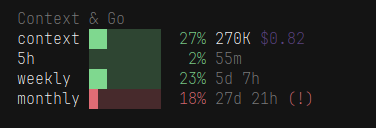
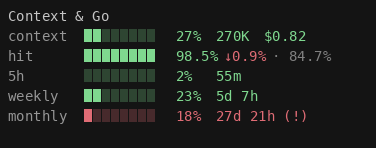
feat: cache hit cliccabile e totale automatico
- src/cache.ts: larghezza stimata per il totale
- src/config.ts: rimossa l'opzione hitTotal
- tests/cache.test.ts: test della larghezza
- tui.tsx: riga hit cliccabile, dettaglio cache, totale automatico
- README.md: testo e tabella aggiornati
- assets/sidebar.png: nuova riga hit

diff --git a/tui.tsx b/tui.tsx
@@ -4,7 +4,7 @@ import { Plugin } from "@opencode/plugin/tui"
 import { DEFAULTS, loadConfig, pollingNeeded, saveConfig, type Config, type Glyph } from "./src/config"
 import { alerting, buildRows, orderRows, type Row } from "./src/rows"
 import { fetchUsageResult, readAuthKey } from "./src/usage"
-import { cacheHit, cachePercent, cacheTrend } from "./src/cache"
+import { cacheHit, cachePercent, cacheTrend, totalFits } from "./src/cache"
 import { Settings } from "./settings"
 
 // Local TUI plugin: one "Context & Go" block, the session's context usage as the
@@ -194,6 +194,8 @@ export default Plugin.define({
     // threshold colours and from the muted title.
     const accent = () =>
       context.theme?.hue?.accent?.["500"] ?? context.theme?.hue?.interactive?.["300"] ?? "#FF9654"
+    const trendColor = (trend: number) =>
+      trend > 0 ? hitColor(context.theme, 100) : trend < 0 ? hitColor(context.theme, 0) : muted()
 
     // One <text> per run: fg given to a <span> is ignored, that run would render in
     // the default colour. The label is left out on the footer row, which has no room
@@ -235,6 +237,8 @@ export default Plugin.define({
 
     // Cache hit: the last assistant message, with the previous one as the trend.
     // Same label column and bar width as the plan rows, so the bars line up.
+    // The total is dropped when the row would not fit (the slot has no width of
+    // its own, so totalFits() estimates it from the terminal).
     const HitRow = (props: { sessionID?: string }) => {
       const info = createMemo(() => {
         tick()
@@ -242,8 +246,6 @@ export default Plugin.define({
       })
       const hit = () => info()?.hit
       const total = () => info()?.total
-      const trendFg = (trend: number) =>
-        trend > 0 ? hitColor(context.theme, 100) : trend < 0 ? hitColor(context.theme, 0) : muted()
       return (
         <Show when={cfg().columns.hit && hit() !== undefined}>
           <box flexDirection="row" gap={0}>
@@ -251,9 +253,14 @@ export default Plugin.define({
             <text fg={hitColor(context.theme, hit()!)}>{bar(hit()!, cfg().bar.cells, cfg().bar.glyphs)}</text>
             <text fg={hitColor(context.theme, hit()!)}>{" " + cachePercent(hit()!)}</text>
             <Show when={info()?.trend !== undefined}>
-              <text fg={trendFg(info()!.trend!)}>{" " + cacheTrend(info()!.trend)}</text>
+              <text fg={trendColor(info()!.trend!)}>{" " + cacheTrend(info()!.trend)}</text>
             </Show>
-            <Show when={cfg().columns.hitTotal && total() !== undefined}>
+            <Show
+              when={
+                total() !== undefined &&
+                totalFits(process.stdout.columns ?? 0, cfg().bar.cells, info()?.trend !== undefined)
+              }
+            >
               <text fg={muted()}>{" \u00b7 " + cachePercent(total()!)}</text>
             </Show>
           </box>
@@ -354,6 +361,17 @@ export default Plugin.define({
               <text fg={accent()}>{col("cost") + USD.format(spent())}</text>
             </Show>
           </Show>
+          <Show when={info()?.hit !== undefined}>
+            <text>{" "}</text>
+            <text fg={cfg().accentLabels ? accent() : muted()}>{"Cache"}</text>
+            <text fg={hitColor(context.theme, info()!.hit!)}>{col("hit") + cachePercent(info()!.hit!)}</text>
+            <Show when={info()?.trend !== undefined}>
+              <text fg={trendColor(info()!.trend!)}>{col("trend") + cacheTrend(info()!.trend)}</text>
+            </Show>
+            <Show when={info()?.total !== undefined}>
+              <text fg={muted()}>{col("total") + cachePercent(info()!.total!)}</text>
+            </Show>
+          </Show>
           <text>{" "}</text>
           <text fg={cfg().accentLabels ? accent() : muted()} onMouseUp={openSettings}>
             {"Settings"}
@@ -418,7 +436,9 @@ export default Plugin.define({
                 <box onMouseUp={() => openDetail(props.sessionID)}>
                   <ContextRow sessionID={props.sessionID} cost label />
                 </box>
-                <HitRow sessionID={props.sessionID} />
+                <box onMouseUp={() => openDetail(props.sessionID)}>
+                  <HitRow sessionID={props.sessionID} />
+                </box>
                 <For each={shown()}>
                   {(row) => <PlanRow row={row} onDetail={() => openDetail(props.sessionID)} />}
                 </For>

diff --git a/src/config.ts b/src/config.ts
@@ -15,7 +15,7 @@ export type Config = {
   autoOpenWindows: string[]
   thresholds: { warning: number; error: number }
   bar: { cells: number; glyphs: Glyph }
-  columns: { percent: boolean; tokens: boolean; cost: boolean; reset: boolean; flag: boolean; hit: boolean; hitTotal: boolean }
+  columns: { percent: boolean; tokens: boolean; cost: boolean; reset: boolean; flag: boolean; hit: boolean }
   order: "fixed" | "projection"
   accentLabels: boolean
   refresh: { contextMs: number; planMs: number }
@@ -32,7 +32,7 @@ export const DEFAULTS: Config = {
   autoOpenWindows: [...WINDOW_LABELS],
   thresholds: { warning: 75, error: 90 },
   bar: { cells: 8, glyphs: "blocks" },
-  columns: { percent: true, tokens: true, cost: true, reset: true, flag: true, hit: true, hitTotal: true },
+  columns: { percent: true, tokens: true, cost: true, reset: true, flag: true, hit: true },
   order: "fixed",
   accentLabels: true,
   refresh: { contextMs: 3_000, planMs: 60_000 },
@@ -68,7 +68,6 @@ function pickColumns(raw: any): Config["columns"] {
     reset: pickBool(raw?.reset, DEFAULTS.columns.reset),
     flag: pickBool(raw?.flag, DEFAULTS.columns.flag),
     hit: pickBool(raw?.hit, DEFAULTS.columns.hit),
-    hitTotal: pickBool(raw?.hitTotal, DEFAULTS.columns.hitTotal),
   }
 }
 
@@ -209,7 +208,6 @@ export function optionKeys(cfg: Config): string[] {
     "columns.reset",
     "columns.flag",
     "columns.hit",
-    "columns.hitTotal",
     "refresh.contextMs",
     "refresh.planMs",
     "projectionMinElapsed",

diff --git a/tests/cache.test.ts b/tests/cache.test.ts
@@ -1,5 +1,5 @@
 import { test, expect } from "bun:test"
-import { cacheHit, cachePercent, cacheTrend } from "../src/cache"
+import { cacheHit, cachePercent, cacheTrend, totalFits } from "../src/cache"
 
 const assistant = (id: string, input: number, read: number, write = 0) => ({
   id,
@@ -36,6 +36,13 @@ test("no assistant tokens means no row", () => {
   expect(cacheHit([{ id: "u", type: "user" }])).toBeUndefined()
   expect(cacheHit([])).toBeUndefined()
   expect(cacheHit([{ id: "a", type: "assistant", tokens: { input: 0, cache: { read: 0, write: 0 } } }])).toBeUndefined()
+})
+
+test("the total only shows when the sidebar has room", () => {
+  expect(totalFits(160, 8, true)).toBe(true)
+  expect(totalFits(120, 8, true)).toBe(true)
+  expect(totalFits(100, 8, true)).toBe(false)
+  expect(totalFits(100, 8, false)).toBe(true)
 })
 
 test("percent and trend keep the token-cache formatting", () => {

diff --git a/src/cache.ts b/src/cache.ts
@@ -58,3 +58,13 @@ export function cacheTrend(value: number | undefined): string {
   if (value === undefined || Math.abs(value) < 0.05) return "-"
   return (value > 0 ? "\u2191" : "\u2193") + Math.abs(value).toFixed(1) + "%"
 }
+
+// The sidebar slot reports only the session id, not its width. The host gives it
+// roughly a third of the terminal, so that is the budget used to decide whether
+// the session total fits after the trend. Row: label, bar, " 98.5%", " ↓0.9%",
+// " · 84.7%".
+export function totalFits(terminalWidth: number, cells: number, hasTrend: boolean): boolean {
+  const sidebar = Math.floor(terminalWidth * 0.3)
+  const row = 8 + cells + 6 + (hasTrend ? 6 : 0) + 8
+  return sidebar >= row
+}

diff --git a/README.md b/README.md
@@ -66,8 +66,10 @@ monthly ████████  14% 28d 3h (!)
 - The first row is the session's context: a bar, the percentage, the tokens used and, on the sidebar,
   the session cost.
 - The second row is the cache hit of the last assistant message: the same bar and label column as the
-  plan rows, the percentage, the delta against the previous message, and the session total when
-  `columns.hitTotal` is on. A high hit is good, so its colour is not the Go-plan threshold colour.
+  plan rows, the percentage, the delta against the previous message, and the session total when the
+  sidebar has room for it. The slot reports no width, so the terminal width is used as a proxy and
+  the total stays off on narrow terminals. A high hit is good, so its colour is not the Go-plan
+  threshold colour.
 - One row per plan window: the bar and the percentage in the threshold colour, the countdown to that
   window's reset, and `(!)` when the pace seen so far would saturate the window before it resets.
 - A window that is only *forecasting* a breach already takes the alert colour: 14% used but heading
@@ -77,7 +79,7 @@ Prompt footer row: the same context figures in compact form, then ` | 5h:20% w:1
 
 Clicking the title or any row opens one detail dialog: every window with how much of it has elapsed
 and where the pace lands by the reset, the model, the used tokens against the context window, the
-cost, and a **Settings** row. The dialog also opens by itself the first time a window starts
+cache hit with its trend and session total, the cost, and a **Settings** row. The dialog also opens by itself the first time a window starts
 forecasting past the threshold — once per alert, not on every refresh.
 
 ### Where the numbers come from
@@ -158,12 +160,13 @@ re-read on a timer, so neither a click nor an edit needs a restart.
 | `columns.reset` | `true` | The reset countdown on each plan row |
 | `columns.flag` | `true` | The `(!)` forecast flag |
 | `columns.hit` | `true` | The cache-hit row |
-| `columns.hitTotal` | `true` | The session cache total after the hit trend |
 | `order` | `"fixed"` | `"fixed"` (5h, weekly, monthly) or `"projection"` (worst forecast first) |
 | `accentLabels` | `true` | Section headers in the theme accent instead of grey |
 | `refresh.contextMs` | `3000` | How often the context figures are recomputed |
 | `refresh.planMs` | `60000` | How often the plan windows are fetched |
 | `projectionMinElapsed` | `5` | Below this much of a window elapsed, no forecast is attempted |
+
+The cache total is not an option: it disappears when the estimated sidebar width cannot hold it.
 
 One option is not in the file: with `sidebar`, `footer` and `autoOpen` all `false` nothing can show or
 announce the figures, and the endpoint is never called.
